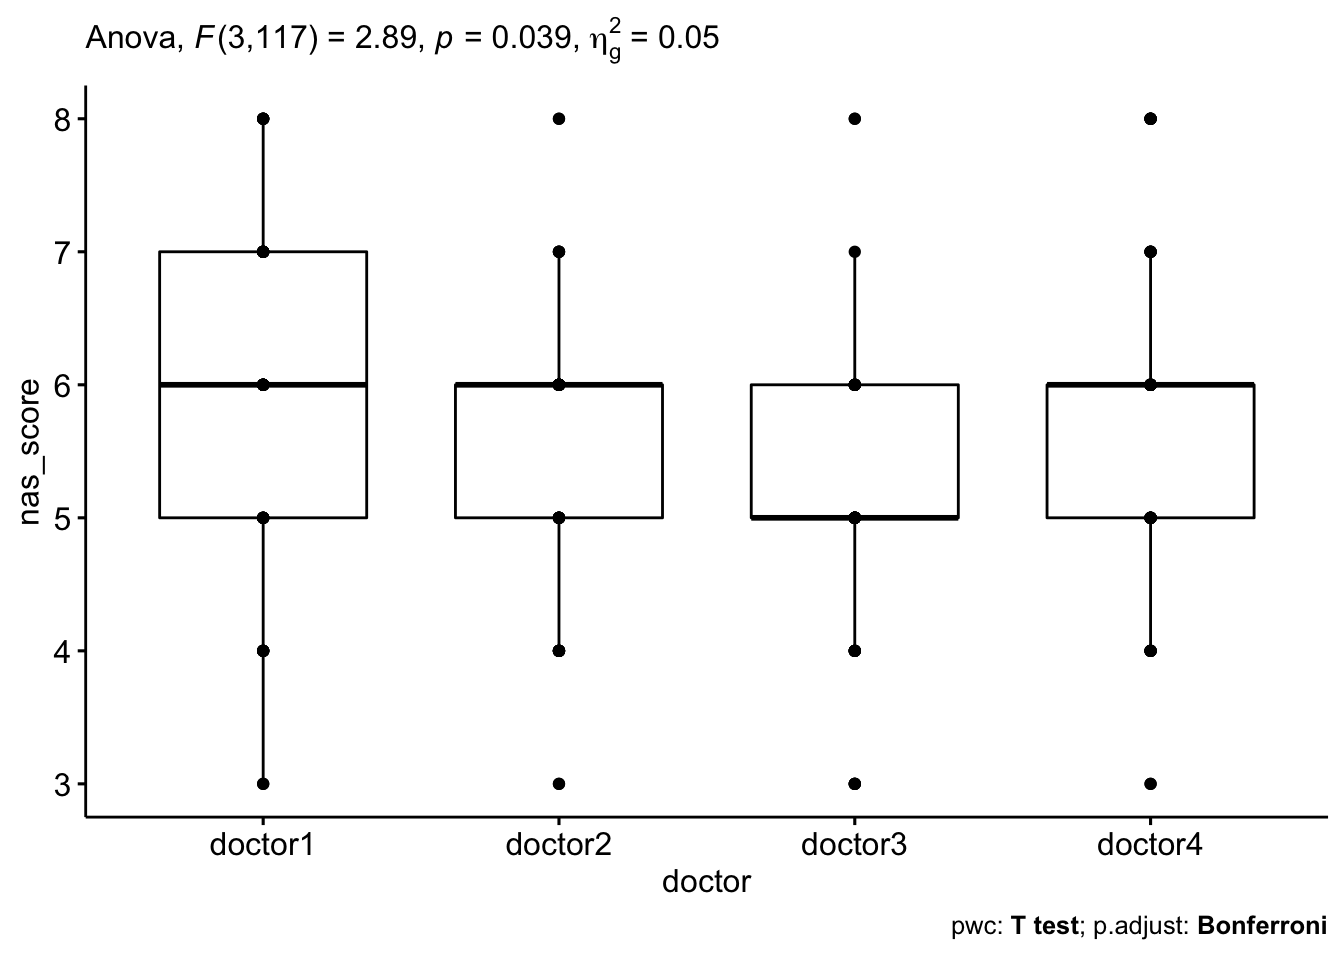
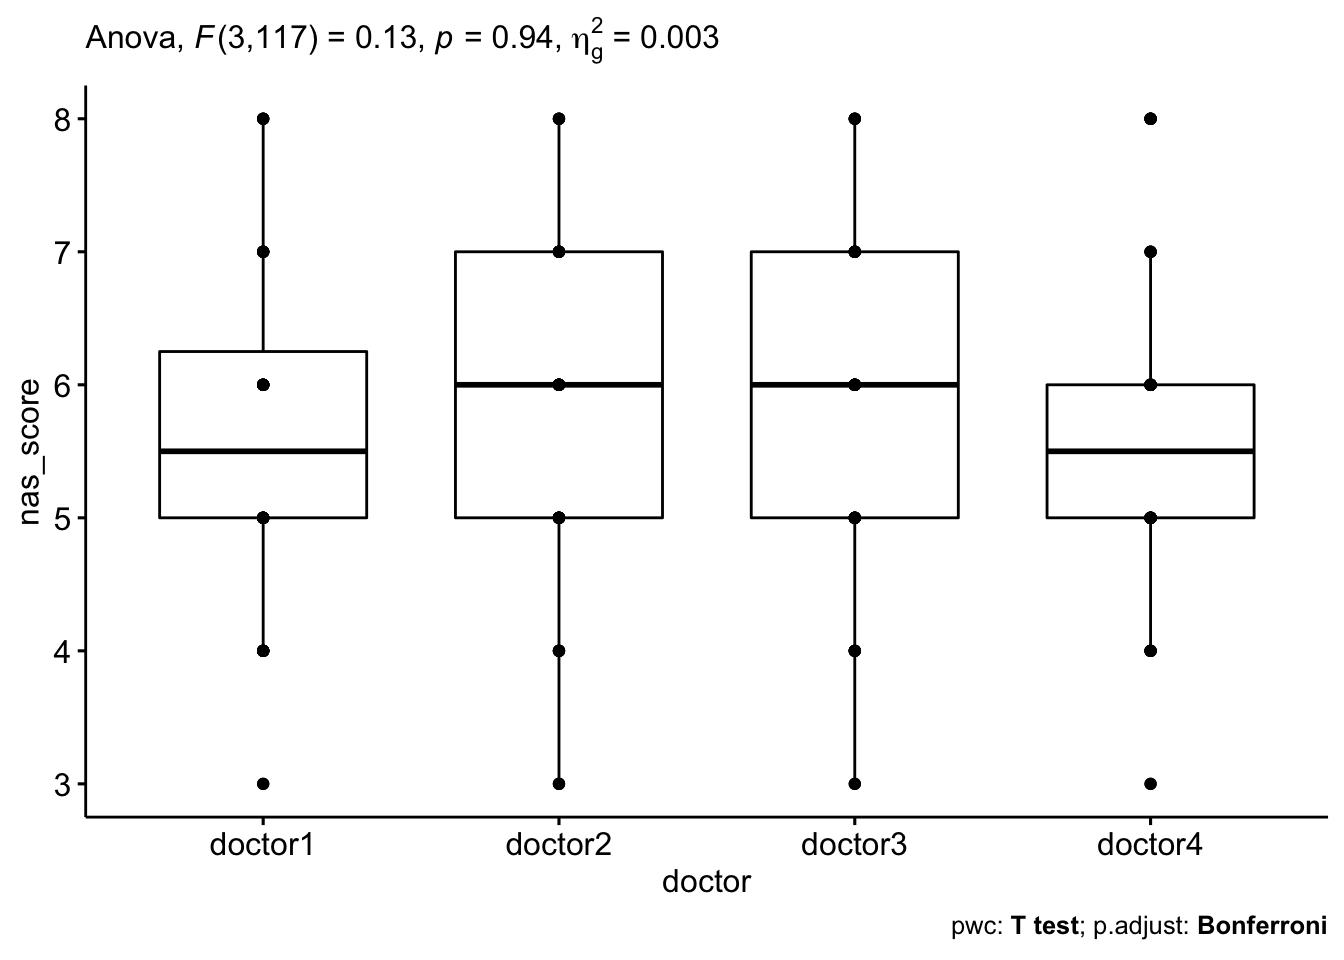
movie data added

diff --git a/NAS.html b/NAS.html
@@ -367,21 +367,21 @@ mydata_long &lt;- mydata %&gt;%
 <pre><code>## # A tibble: 5 x 5
 ##   doctor  id    nas_score is.outlier is.extreme
 ##   &lt;fct&gt;   &lt;fct&gt;     &lt;dbl&gt; &lt;lgl&gt;      &lt;lgl&gt;     
-## 1 doctor1 1             8 TRUE       FALSE     
-## 2 doctor1 2             8 TRUE       FALSE     
-## 3 doctor1 29            8 TRUE       FALSE     
-## 4 doctor4 13            8 TRUE       FALSE     
-## 5 doctor4 38            8 TRUE       FALSE</code></pre>
+## 1 doctor1 10            3 TRUE       FALSE     
+## 2 doctor4 1             3 TRUE       FALSE     
+## 3 doctor4 7             8 TRUE       FALSE     
+## 4 doctor4 17            8 TRUE       FALSE     
+## 5 doctor4 26            8 TRUE       FALSE</code></pre>
 <pre class="r"><code>mydata_long %&gt;%
   group_by(doctor) %&gt;%
   shapiro_test(nas_score)</code></pre>
 <pre><code>## # A tibble: 4 x 4
-##   doctor  variable  statistic      p
-##   &lt;fct&gt;   &lt;chr&gt;         &lt;dbl&gt;  &lt;dbl&gt;
-## 1 doctor1 nas_score     0.930 0.0160
-## 2 doctor2 nas_score     0.924 0.0107
-## 3 doctor3 nas_score     0.936 0.0255
-## 4 doctor4 nas_score     0.939 0.0330</code></pre>
+##   doctor  variable  statistic       p
+##   &lt;fct&gt;   &lt;chr&gt;         &lt;dbl&gt;   &lt;dbl&gt;
+## 1 doctor1 nas_score     0.930 0.0156 
+## 2 doctor2 nas_score     0.940 0.0358 
+## 3 doctor3 nas_score     0.941 0.0374 
+## 4 doctor4 nas_score     0.923 0.00974</code></pre>
 </div>
 <div id="test" class="section level4">
 <h4>Test</h4>
@@ -390,7 +390,7 @@ get_anova_table(res.aov)</code></pre>
 <pre><code>## ANOVA Table (type III tests)
 ## 
 ##   Effect DFn DFd     F     p p&lt;.05   ges
-## 1 doctor   3 117 1.086 0.358       0.023</code></pre>
+## 1 doctor   3 117 0.127 0.944       0.003</code></pre>
 <pre class="r"><code>### pairwise comparisons
 pwc &lt;- mydata_long %&gt;%
   pairwise_t_test(
@@ -401,12 +401,12 @@ pwc</code></pre>
 <pre><code>## # A tibble: 6 x 10
 ##   .y.       group1  group2     n1    n2 statistic    df     p p.adj p.adj.signif
 ## * &lt;chr&gt;     &lt;chr&gt;   &lt;chr&gt;   &lt;int&gt; &lt;int&gt;     &lt;dbl&gt; &lt;dbl&gt; &lt;dbl&gt; &lt;dbl&gt; &lt;chr&gt;       
-## 1 nas_score doctor1 doctor2    40    40    -1.12     39 0.268 1     ns          
-## 2 nas_score doctor1 doctor3    40    40     0.524    39 0.603 1     ns          
-## 3 nas_score doctor1 doctor4    40    40    -0.206    39 0.838 1     ns          
-## 4 nas_score doctor2 doctor3    40    40     1.98     39 0.054 0.326 ns          
-## 5 nas_score doctor2 doctor4    40    40     1.06     39 0.295 1     ns          
-## 6 nas_score doctor3 doctor4    40    40    -0.944    39 0.351 1     ns</code></pre>
+## 1 nas_score doctor1 doctor2    40    40   -0.146     39 0.885     1 ns          
+## 2 nas_score doctor1 doctor3    40    40   -0.461     39 0.647     1 ns          
+## 3 nas_score doctor1 doctor4    40    40    0.0869    39 0.931     1 ns          
+## 4 nas_score doctor2 doctor3    40    40   -0.285     39 0.777     1 ns          
+## 5 nas_score doctor2 doctor4    40    40    0.318     39 0.752     1 ns          
+## 6 nas_score doctor3 doctor4    40    40    0.611     39 0.544     1 ns</code></pre>
 </div>
 </div>
 <div id="visualization" class="section level3">
